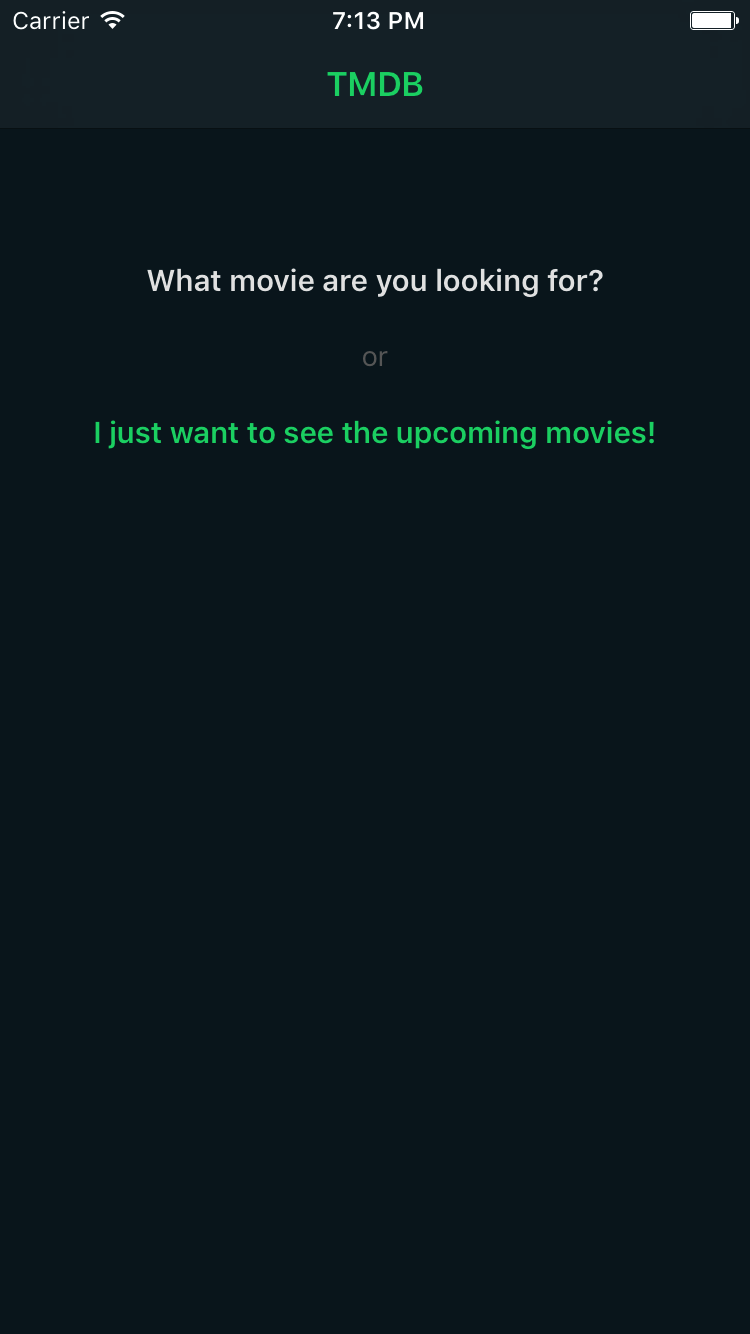
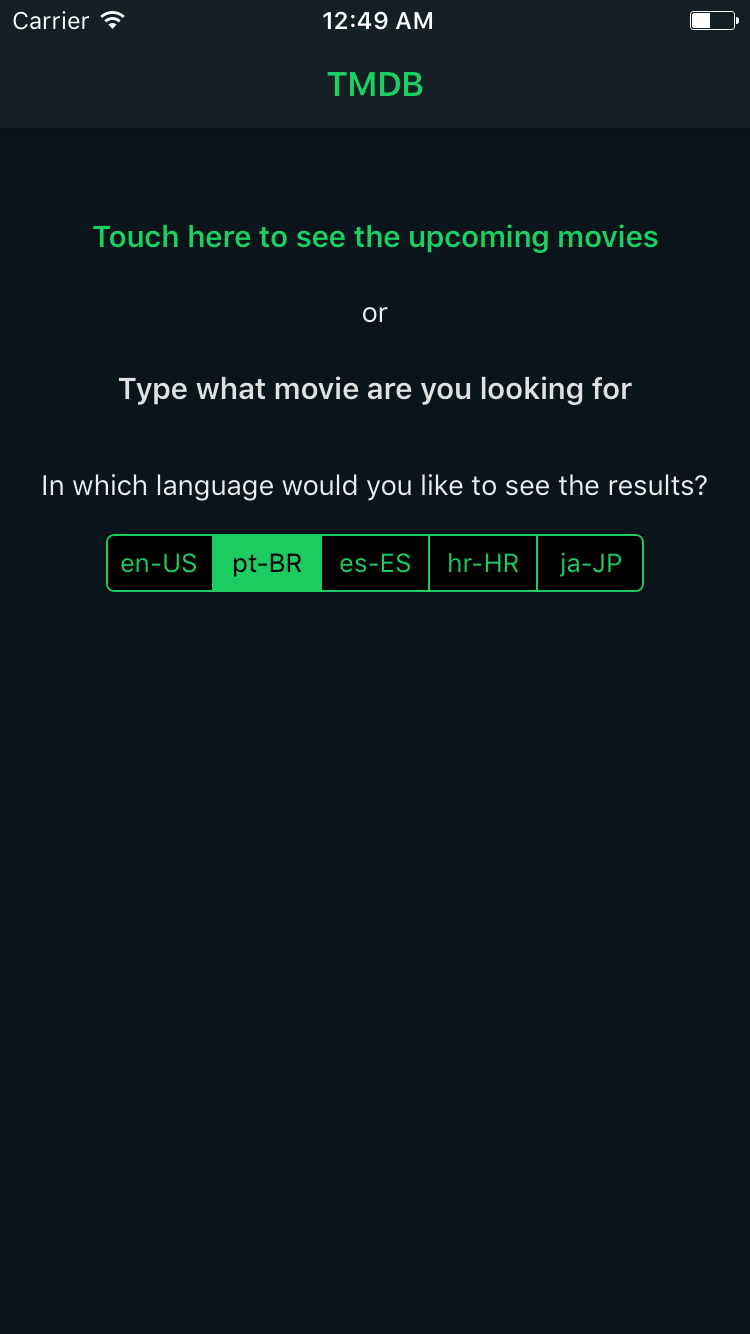
screenshots, language, ui changes

diff --git a/TMDBApp/TMDBApp/SearchViewController.swift b/TMDBApp/TMDBApp/SearchViewController.swift
@@ -13,10 +13,20 @@ class SearchViewController: UIViewController {
 
     @IBOutlet weak var searchTextField: UITextField!
     @IBOutlet weak var upcomingButton: UIButton!
+    @IBOutlet weak var languageSegmentedControl: UISegmentedControl!
     
     override func viewDidLoad() {
         super.viewDidLoad()
         
+        self.updateUI()
+        self.setLanguages()
+        
+        SVProgressHUD.setDefaultStyle(.dark)
+        //SVProgressHUD.setBackgroundColor(UIColor(hexString: Colors.defaultDarkBlue.rawValue))
+        //SVProgressHUD.setForegroundColor(UIColor(hexString: Colors.defaultGreen.rawValue))
+    }
+    
+    fileprivate func updateUI(){
         self.title = "TMDB"
         
         let nav = self.navigationController?.navigationBar
@@ -32,25 +42,36 @@ class SearchViewController: UIViewController {
         self.upcomingButton.setTitleColor(defGreenColor, for: .normal)
         self.view.backgroundColor = defDarkBlueColor
         
-        self.searchTextField.attributedPlaceholder = NSAttributedString(string:"What movie are you looking for?", attributes: [NSForegroundColorAttributeName: UIColor.init(white: 0.9, alpha: 1)])
-
-        
-        SVProgressHUD.setDefaultStyle(.dark)
-        //SVProgressHUD.setBackgroundColor(UIColor(hexString: Colors.defaultDarkBlue.rawValue))
-        //SVProgressHUD.setForegroundColor(UIColor(hexString: Colors.defaultGreen.rawValue))
+        if let strPlaceHolder = self.searchTextField.placeholder {
+            self.searchTextField.attributedPlaceholder = NSAttributedString(string: strPlaceHolder, attributes: [NSForegroundColorAttributeName: UIColor.init(white: 0.9, alpha: 1)])
+        }
+    }
+    
+    fileprivate func setLanguages(){
+        self.languageSegmentedControl.removeAllSegments()
+        for lang in Language.appResult{
+            self.languageSegmentedControl.insertSegment(withTitle: lang, at: self.languageSegmentedControl.numberOfSegments, animated: true)
+        }
+        self.languageSegmentedControl.selectedSegmentIndex = Language.getDefaultIndex()
     }
 
     override func didReceiveMemoryWarning() {
         super.didReceiveMemoryWarning()
-        // Dispose of any resources that can be recreated.
     }
     
     @IBAction func showUpcomingMovies(_ sender: Any) {
+        searchTextField.resignFirstResponder()
+        
         self.performSegue(withIdentifier: Segues.resultMovieSegue.rawValue, sender: nil)
     }
 
+    @IBAction func valueChanged(_ sender: UISegmentedControl) {
+        
+        let lang = Language.appResult[sender.selectedSegmentIndex]
+        Language.setDefaultLanguage(lang)
+        
+    }
     // MARK: - Navigation
-    // In a storyboard-based application, you will often want to do a little preparation before navigation
     override func prepare(for segue: UIStoryboardSegue, sender: Any?) {
         if segue.identifier == Segues.resultMovieSegue.rawValue  {
             if let viewController = segue.destination as? ListMovieViewController {
@@ -65,6 +86,8 @@ class SearchViewController: UIViewController {
 extension SearchViewController: UITextFieldDelegate {
     
     func textFieldShouldReturn(_ textField: UITextField) -> Bool {
+        searchTextField.resignFirstResponder()
+        
         self.performSegue(withIdentifier: Segues.resultMovieSegue.rawValue, sender: textField.text)
         return true
     }

diff --git a/TMDBApp/TMDBApp/Requests.swift b/TMDBApp/TMDBApp/Requests.swift
@@ -13,14 +13,12 @@ import Alamofire
 private struct TMDBMovieAPI {
     
     static let key = "28190e24b6d3d0b73a9b5842bee9d8bf"
-    // 1f54bd990f1cdfb230adb312546d765d.
-    
-    static let language = "en-US"// "en-UK", "pt-BR"
+    // 1f54bd990f1cdfb230adb312546d765d
     
     static let upcomingPath = "https://api.themoviedb.org/3/movie/upcoming"
     static let genrerPath   = "https://api.themoviedb.org/3/genre/movie/list"
     static let searchPath   = "http://api.themoviedb.org/3/search/movie"
-    static let imagePath    = "https://image.tmdb.org/t/p/w780/"
+    static let imagePath    = "https://image.tmdb.org/t/p/w780"
     
 }
 
@@ -35,16 +33,6 @@ class Requests: NSObject{
             static var sharedInstance = Requests()
         }
         return Singleton.sharedInstance
-    }
-    
-    func verifyNetwork(andMake request:String){
-        let manager = NetworkReachabilityManager()
-        
-        manager?.listener = { status in
-            print("Network Status Changed: \(status)")
-        }
-        
-        manager?.startListening()
     }
     
     fileprivate func request(fromString requestString: String, withCompletion completion: @escaping CompletionResultError) {
@@ -77,7 +65,7 @@ class Requests: NSObject{
         
         let requestString = TMDBMovieAPI.searchPath +
                             "?api_key=" + TMDBMovieAPI.key +
-                            "&language=" + TMDBMovieAPI.language +
+                            "&language=" + Language.getDefaultLanguage() +
                             "&query=" + query +
                             "&page=" + String(page)
         
@@ -99,7 +87,7 @@ class Requests: NSObject{
         
         let requestString = TMDBMovieAPI.upcomingPath +
                             "?api_key=" + TMDBMovieAPI.key +
-                            "&language=" + TMDBMovieAPI.language +
+                            "&language=" + Language.getDefaultLanguage() +
                             "&page=" + String(page)
         self.request(fromString: requestString, withCompletion: completion)
     }
@@ -108,7 +96,8 @@ class Requests: NSObject{
         
         let requestString = TMDBMovieAPI.genrerPath +
                             "?api_key=" + TMDBMovieAPI.key +
-                            "&language=" + TMDBMovieAPI.language
+                            "&language=" + Language.getDefaultLanguage()
+        
         self.request(fromString: requestString, withCompletion: completion)
     }
     

diff --git a/TMDBApp/TMDBApp/DetailMovieViewController.swift b/TMDBApp/TMDBApp/DetailMovieViewController.swift
@@ -24,6 +24,12 @@ class DetailMovieViewController: UIViewController {
     override func viewDidLoad() {
         super.viewDidLoad()
 
+        self.updateUI()
+        self.fillView()
+    }
+    
+    fileprivate func updateUI(){
+        
         self.title = movie?.title
         
         self.view.backgroundColor = UIColor.init(hexString: Colors.defaultDarkBlue.rawValue)
@@ -31,8 +37,6 @@ class DetailMovieViewController: UIViewController {
         scrollView.backgroundColor = UIColor.init(hexString: Colors.defaultDarkBlue.rawValue)
         
         titleMovieLabel.textColor = UIColor.init(hexString: Colors.defaultGreen.rawValue)
-        
-        fillView()
     }
     
     fileprivate func fillView(){
@@ -49,30 +53,14 @@ class DetailMovieViewController: UIViewController {
         
         Timer.scheduledTimer(timeInterval: 0.1, target: self, selector: #selector(self.updateSizeScroll), userInfo: nil, repeats: false);
     }
+    
     func updateSizeScroll(){
         self.scrollView.contentSize = CGSize(width: 0, height: contentView.frame.size.height)
-        
-        //coverView.isHidden = true
-        if scrollView.contentSize.height <= self.view.frame.size.height{
-            self.navigationController?.hidesBarsOnSwipe = false
-        }
     }
-
     
     override func didReceiveMemoryWarning() {
         super.didReceiveMemoryWarning()
         // Dispose of any resources that can be recreated.
     }
-    
-
-    /*
-    // MARK: - Navigation
-
-    // In a storyboard-based application, you will often want to do a little preparation before navigation
-    override func prepare(for segue: UIStoryboardSegue, sender: Any?) {
-        // Get the new view controller using segue.destinationViewController.
-        // Pass the selected object to the new view controller.
-    }
-    */
 
 }

diff --git a/TMDBApp/TMDBApp/Genrer.swift b/TMDBApp/TMDBApp/Genrer.swift
@@ -12,6 +12,7 @@ enum ServerTMDBGenrer:String{
     case id = "id"
     case name = "name"
 }
+
 class Genrer{
     var id:Int?
     var name:String?
@@ -27,52 +28,3 @@ class Genrer{
         }
     }
 }
-
-/*
-
-class Genres: NSObject{
-    
-    var genres = [Genrer]()
-    
-    class func sharedInstance() -> Genres {
-        struct Singleton {
-            static var sharedInstance = Genres()
-        }
-        return Singleton.sharedInstance
-    }
-    func getGenre(byId id:Int) -> Genrer? {
-        for genrer in genres {
-            if genrer.id == id{
-                return genrer
-            }
-        }
-        return nil
-    }
-    
-    fileprivate func getGenres(withCompletion completion: @escaping CompletionResultError) {
-        Requests.sharedInstance().requestGenrer{ [weak self] (result, error) in
-            
-            guard result != nil, let resultDict = result as? DictionaryData else{
-                completion(nil, error)
-                return
-            }
-            self?.parseGenrer(resultDict)
-            
-            completion(true, nil)
-        }
-    }
-    
-    fileprivate func parseGenrer(_ data:DictionaryData){
-        genres = [Genrer]()
-        
-        guard let results = data[jsonResult.genres.rawValue] as? [DictionaryData] else {
-            return
-        }
-        for result in results{
-            let genrer = Genrer(withDict: result)
-            genres.append(genrer)
-        }
-    }
-}
- 
- */

diff --git a/TMDBApp/TMDBApp/Language.swift b/TMDBApp/TMDBApp/Language.swift
@@ -1,0 +1,37 @@
+//
+//  Language.swift
+//  TMDBApp
+//
+//  Created by Richard Leh on 17/01/2017.
+//  Copyright © 2017 Richard Leh. All rights reserved.
+//
+
+import Foundation
+
+struct Language{
+    static let defaulUserKey = "defaulLanguage"
+    static let appResult = ["en-US", "pt-BR", "es-ES", "hr-HR", "ja-JP"]
+    
+    static func setDefaultLanguage(_ lang:String){
+        let defaults = UserDefaults.standard
+        defaults.set(lang, forKey: Language.defaulUserKey)
+        defaults.synchronize()
+    }
+    
+    static func getDefaultLanguage() -> String{
+        let defaults = UserDefaults.standard
+        guard let lang = defaults.value(forKey: Language.defaulUserKey) as? String else{
+            return ""
+        }
+        return lang
+    }
+    
+    static func getDefaultIndex() -> Int{
+        let defaults = UserDefaults.standard
+        guard let lang = defaults.value(forKey: Language.defaulUserKey) as? String,
+            let index = appResult.index(of: lang) else{
+                return 0
+        }
+        return index
+    }
+}

diff --git a/TMDBApp/TMDBApp/Movie.swift b/TMDBApp/TMDBApp/Movie.swift
@@ -30,8 +30,6 @@ class Movie{
     
     var genres:[Genrer]?
     
-    // including movie name, poster or backdrop image, genre and release date.
-    // name, poster image, genre, overview and release date
     convenience init(withDict dictionary:DictionaryData, andGenres genresArr:[Genrer]) {
         self.init()
         
@@ -41,6 +39,7 @@ class Movie{
         if let _title = dictionary[ServerTMDBMovie.title.rawValue] as? String{
             self.title = _title
         }
+        
         if let _genreIds = dictionary[ServerTMDBMovie.genreIds.rawValue] as? [Int]{
             self.genreIds = _genreIds
             self.genres = []
@@ -50,7 +49,6 @@ class Movie{
                 self.genres?.append(contentsOf: genrer)
             }
         }
-        
         
         if let _posterPath = dictionary[ServerTMDBMovie.posterPath.rawValue] as? String{
             self.posterPath = _posterPath

diff --git a/TMDBApp/TMDBApp/ListMovieViewController.swift b/TMDBApp/TMDBApp/ListMovieViewController.swift
@@ -35,6 +35,12 @@ class ListMovieViewController: UIViewController {
     override func viewDidLoad() {
         super.viewDidLoad()
         
+        self.updateUI()
+        self.getGenres()
+    }
+    
+    fileprivate func updateUI(){
+        
         self.view.backgroundColor = UIColor.init(hexString: Colors.defaultDarkBlue.rawValue)
         self.tableView.backgroundColor = UIColor.init(hexString: Colors.defaultDarkBlue.rawValue)
         
@@ -43,13 +49,8 @@ class ListMovieViewController: UIViewController {
         }else{
             self.title = query
         }
-        
-        self.getGenres()
     }
-    
-    fileprivate func getMovies(fromJson json:DictionaryData){
-        print(json)
-    }
+
     fileprivate func getGenres(){
         
         self.showProgress()

diff --git a/TMDBApp/TMDBApp/General.swift b/TMDBApp/TMDBApp/General.swift
@@ -40,7 +40,6 @@ func genrerFormatedString(fromMovie movie:Movie) -> String{
     return ""
 }
 
-
 // MARK: Extensions
 
 extension UIViewController {
